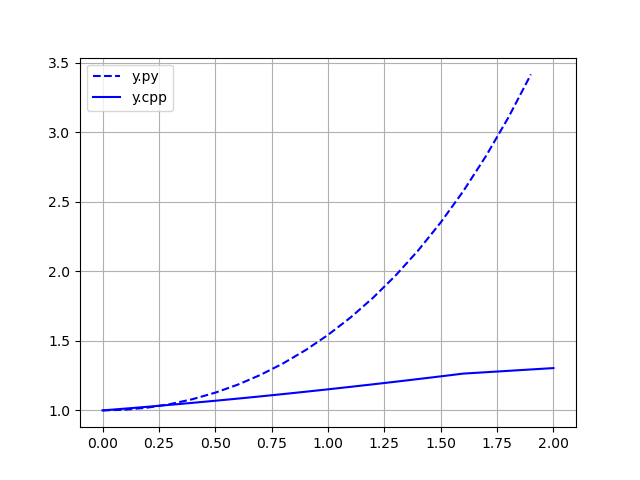
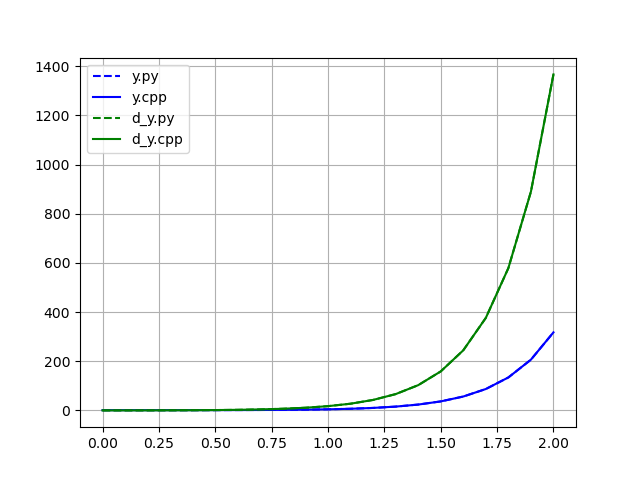
Add files via upload

diff --git a/lab7.cpp b/lab7.cpp
@@ -1,86 +1,41 @@
-// Example program
 #include <iostream>
 #include <string>
 #include <math.h>
 #include <fstream>
 using namespace std;
-double dif_ur(double x, double y, double p_y, double p2_y){
-return sin(x) + 4.0 * y - 4.0 * p_y + 5 * p2_y;
+double f(double x, double y, double d_y, double d2_y){
+return sin(x) + 4.0 * y - 4.0 * d_y + 5 * d2_y;
 }
-int main()
-{
+int main(){
 fstream f1,f2,f3;
-double e = 0.01;    
-double p2_y1 = 0, p_y1 = 0, y1 = 0;
-int n=20;
-double x1=0,x2=2;
-double x[21],y[21],p_y[21],p2_y[21];
-double h=(x2-x1)/n;
-
-
-y[0] = 1.0;
-x[0] = x1;
-p_y[0] = 0;
-p2_y[0] = 0;
-for(int i=0;i<n+1;i++)
-{
-x[i+1]=x[i]+h;
-do{
-p2_y[i+1] = p2_y[i] + h * dif_ur(x[i],y[i],p_y[i], p2_y[i]);
-h /= 2;
-p2_y1 = p2_y[i] + h * dif_ur(x[i],y[i],p_y[i], p2_y[i]);
-}while ( fabs(p2_y[i+1] - p2_y1) >= e);
-h=(x2-x1)/n;
-do{
-p_y[i+1] = p_y[i] + h * dif_ur(x[i],y[i],p_y[i], p2_y[i]);
-h /= 2;
-p_y1 = p_y[i] + h * dif_ur(x[i],y[i],p_y[i], p2_y[i]);
-}while ( fabs(p_y[i+1] - p_y1) >= e);
-h=(x2-x1)/n;
-do{
-y[i+1] = y[i] + h * dif_ur(x[i],y[i],p_y[i], p2_y[i]);
-h /= 2;
-y1 = y[i] + h * dif_ur(x[i],y[i],p_y[i], p2_y[i]);
-}while ( fabs(y[i+1] - y1) >= e);
-h=(x2-x1)/n;
-do{
-    p2_y[i+1] = p2_y[i] + (h / 2) * (dif_ur(x[i+1],y[i+1],p_y[i+1], p2_y[i+1]) + dif_ur(x[i],y[i],p_y[i], p2_y[i]));
-    h /= 2;
-    p2_y1 = p2_y[i] + (h / 2) * (dif_ur(x[i+1],y[i+1],p_y[i+1], p2_y[i+1]) + dif_ur(x[i],y[i],p_y[i], p2_y[i]));
-}while ( fabs(p2_y[i+1] - p2_y1) >= e);
-h = (x2-x1)/n;
-
-do{
-p_y[i+1] = p_y[i] + (h / 2) * (dif_ur(x[i+1],y[i+1],p_y[i+1], p2_y[i+1]) + dif_ur(x[i],y[i],p_y[i], p2_y[i]));
-h /= 2;
-p_y1 = p_y[i] + (h / 2) * (dif_ur(x[i+1],y[i+1],p_y[i+1], p2_y[i+1]) + dif_ur(x[i],y[i],p_y[i], p2_y[i]));
-}while ( fabs(p_y[i+1] - p_y1) >= e);
-h=(x2-x1)/n;
-
-do{
-y[i+1] = y[i] + (h / 2) * (dif_ur(x[i+1],y[i+1],p_y[i+1], p2_y[i+1]) + dif_ur(x[i],y[i],p_y[i], p2_y[i]));
-h /= 2;
-y1 = y[i] + (h / 2) * (dif_ur(x[i+1],y[i+1],p_y[i+1], p2_y[i+1]) + dif_ur(x[i],y[i],p_y[i], p2_y[i]));
-}while ( fabs(y[i+1] - y1) >= e);
-h=(x2-x1)/n;
-
-}
-f1.open("y.txt", ios::out);
-for(int i = 0; i < n+1; i++){
-    if (f1){f1 << x[i] << "    " << y[i] << endl;}
-}
-f1.close();
-
-f2.open("p_y.txt", ios::out);
-for(int i = 0; i < n+1; i++){
-    if (f2){f2 << x[i] << "    " << p_y[i] << endl;}
-}
-f2.close();
-
-f3.open("y_and_p_y.txt", ios::out);
-for(int i = 0; i < n+1; i++){
-    if (f3){f3 << y[i] << "    " << p_y[i] << endl;}
-}
-f3.close();
-return 0;
+//double e = 0.01;
+//double p2_y1 = 0, p_y1 = 0, y1 = 0;
+int n=10000;
+int p = 256;
+//double x1=0,x2=2;
+//double y11, d_y11, d2_y11, h1;
+double x[n],y[n], d_y[n], d2_y[n];
+//double h=(x2-x1)/n;
+double h = 0.1/p;
+int i = 0;
+x[0] = 0; y[0] = 1.0; d_y[0] = 0; d2_y[0] = 0;
+//y1[0] = 1.0; p_y1[0] = 0; p2_y1[0] = 0;
+ do{
+    x[i+1] = x[i] + h;
+    y[i+1] = y[i] + h * d_y[i];
+    d_y[i+1] = d_y[i] + h * d2_y[i];
+    d2_y[i+1] = d2_y[i] + h * f(x[i], y[i], d_y[i], d2_y[i]);
+    y[i+1] = y[i] + (h/2.0) * (d_y[i] + d_y[i+1]);
+    d_y[i+1] = d_y[i] + (h/2.0) * (d2_y[i] + d2_y[i+1]);
+    d2_y[i+1] = d2_y[i] + (h/2.0) * (f(x[i], y[i], d_y[i], d2_y[i]) + f(x[i+1], y[i+1], d_y[i+1], d2_y[i+1]));
+    i++;
+}while(x[i] < 2.0);
+    f1.open("y.txt", ios::out);f2.open("d_y.txt", ios::out);f3.open("d2_y.txt", ios::out);
+    for (int j = 0; j < i + 1; j+=p){
+        if(f1){f1 << x[j] << "   " << y[j] << endl;}
+        if(f2){f2 << x[j] << "   " << d_y[j] << endl;}
+        if(f3){f3 << d_y[j] << "   " << d2_y[j] << endl;}
+        }
+    f1.close();f2.close();f3.close();
+    return 0;
 }

diff --git a/lab7.py b/lab7.py
@@ -1,47 +1,50 @@
-from scipy.integrate import odeint  
-import numpy as np                   
+from scipy.integrate import odeint
+import numpy as np
 import matplotlib.pyplot as plt
 import math
 
-def f(y, x):
-    y1, y2, y3 = y
-    return [y2, y1, math.sin(x) - 5.0*y3 + 4.0*y3 - 4.0*y1]
+def f(z, x):
+    z1, z2, z3 = z
+    return [z2, z3, math.sin(x) + 5.0*z3 - 4.0*z2 + 4.0*z1]
 
-x = np.arange(0.0, 2.0, 0.1)    
-y0 = [1.0, 0, 0]    
- 
+x = np.linspace(0.0, 2.0, 21)
+y0 = [1.0, 0.0, 0.0]
+
 sol = odeint(f, y0, x)
-#for i in range(len(sol)):
-#    print (sol[i])
+for i in range(len(sol)):
+    print (x[i], sol[i])
 
-fig1 = plt.figure("y(x)")
+fig1 = plt.figure("y(x) and y'(x)")
 ax1 = fig1.add_subplot()
 
-fig2 = plt.figure("y'(x)")
+fig2 = plt.figure("y'(y)")
 ax2 = fig2.add_subplot()
 
-fig3 = plt.figure("y'(y)")
+fig3 = plt.figure()
 ax3 = fig3.add_subplot()
 
 data1 = np.loadtxt("y.txt")
 ax1.plot(x, sol[:, 0], 'b--', label='y.py')
 ax1.plot(data1[:,0], data1[:,1], 'b', label='y.cpp')
+data2 = np.loadtxt("d_y.txt")
+ax1.plot(x, sol[:, 1], 'g--', label='d_y.py')
+ax1.plot(data2[:,0], data2[:,1], 'g', label='d_y.cpp')
 ax1.legend(loc='best')
 ax1.grid()
-
-data2 = np.loadtxt("p_y.txt")
-ax2.plot(x, sol[:, 1], 'g--', label='p_y.py')
-ax2.plot(data2[:,0], data2[:,1], 'g', label='p_y.cpp')
+fig1.savefig("g1.png")
 
 
+data3 = np.loadtxt("d2_y.txt")
+ax2.plot(sol[:, 0], sol[:, 1], 'r--', label='y and d2_y.py')
+ax2.plot(data3[:,0], data3[:,1], 'r', label='y and d2_y.cpp')
 ax2.legend(loc='best')
-
 ax2.grid()
+fig2.savefig("g2.png")
 
-data3 = np.loadtxt("y_and_p_y.txt")
-ax3.plot(sol[:, 0], sol[:, 1], 'r--', label='y and p2_y.py')
-ax3.plot(data3[:,0], data3[:,1], 'r', label='y and p2_y.cpp')
+
+ax3.plot(x, data1[:,1]-sol[:, 0], 'r', label = 'y')
+ax3.plot(x, data2[:,1]-sol[:, 1], 'r--', label = 'd_y')
 ax3.legend(loc='best')
-
 ax3.grid()
+fig3.savefig("g3.png")
 plt.show()
